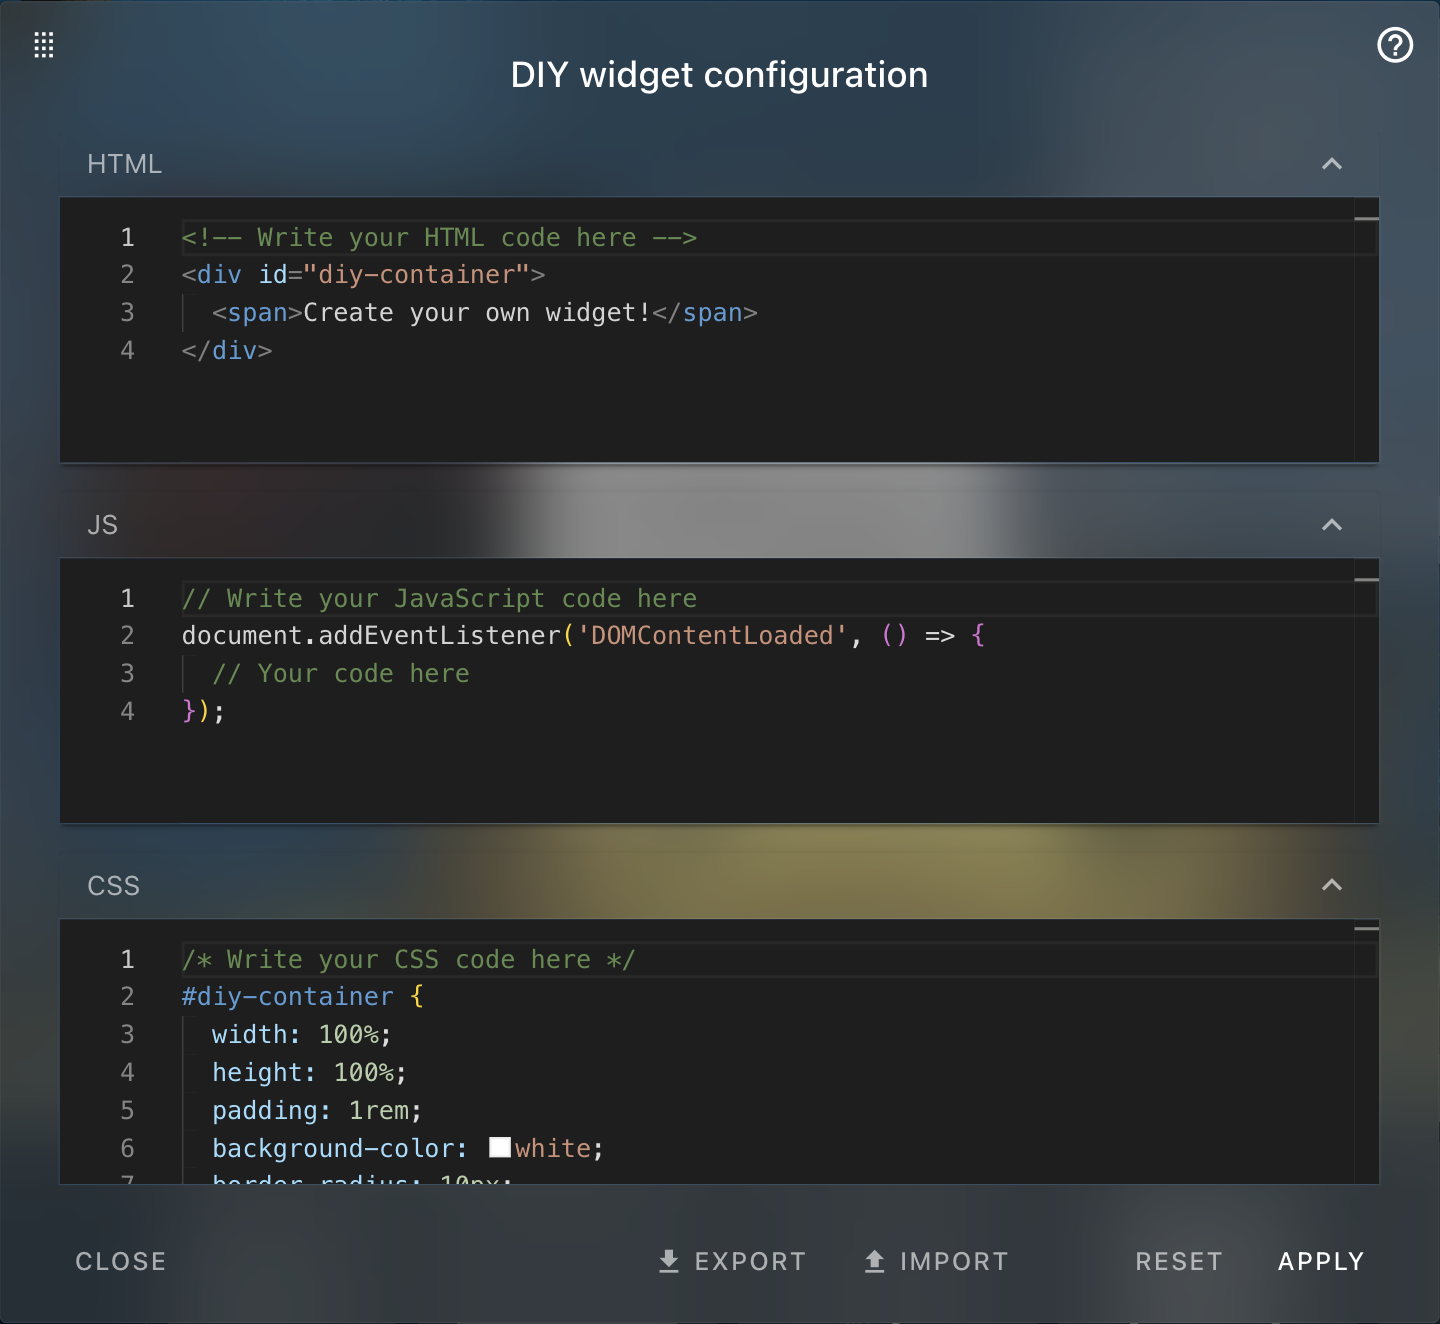
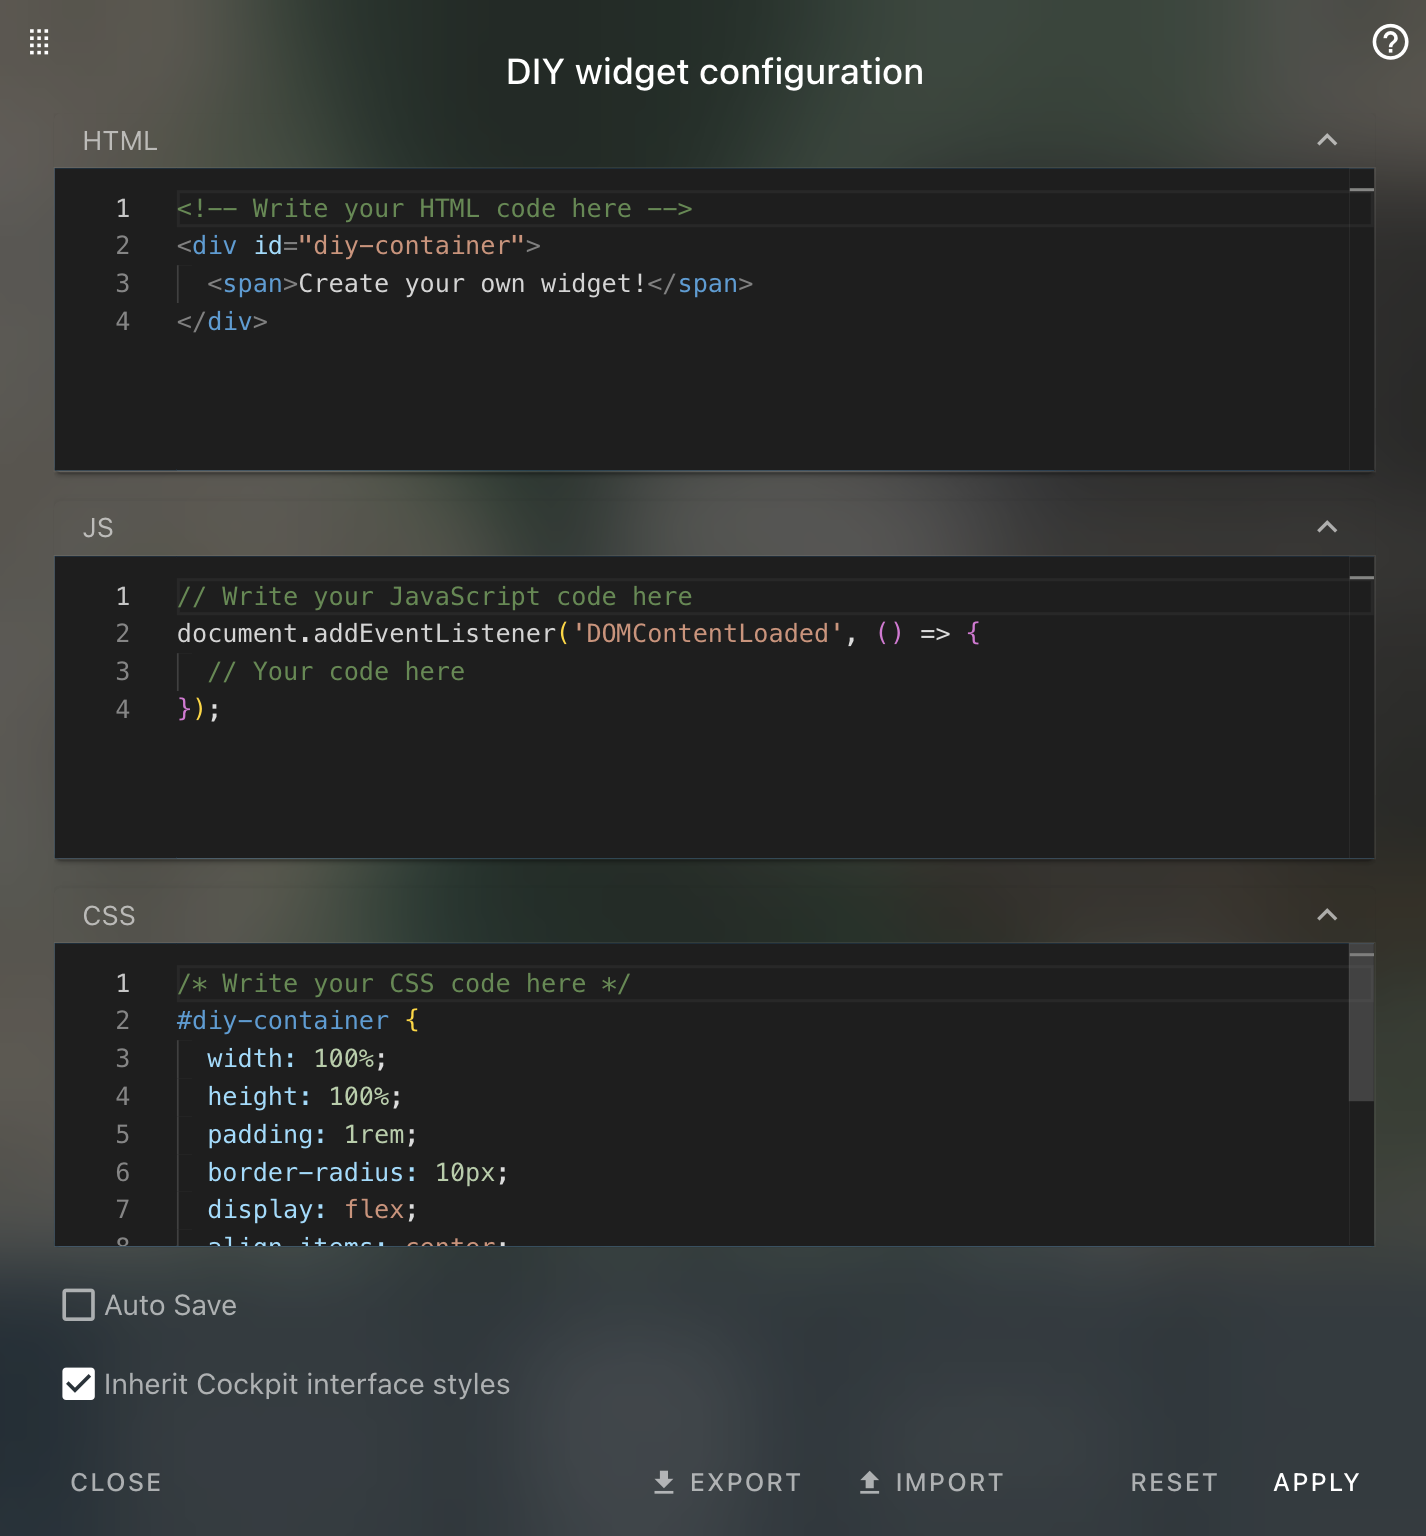
content: usage: advanced: DIY config style inheriting and auto-saving

diff --git a/content/usage/advanced/index.md b/content/usage/advanced/index.md
@@ -155,8 +155,8 @@ user (if one exists - otherwise it uses Cockpit's default profiles).
 ### Profiles
 
 A "profile" is a collection of [views](#views) that are relevant to a particular use-case or vehicle,
-together with any configured [custom widgets](#do-it-yourself-widget), [custom Actions](#custom-actions),
-and persistent [data-lake](#data-lake) variables.
+together with any configured [custom widgets](#do-it-yourself-diy-widget),
+[custom Actions](#custom-actions), and persistent [data-lake](#data-lake) variables.
 
 If one control station computer is used for multiple complex use-cases (which each require multiple 
 separate Views), then they can be separated into Profiles and the most relevant one can be switched
@@ -689,11 +689,15 @@ modifying basic appearance characteristics:
 It is possible to change the decimal resolution of the displayed statistics, and the limit the number
 of plotted samples to improve visibility and performance.
 
-#### Do It Yourself Widget
+#### Do It Yourself (DIY) Widget
 
 - Completely custom elements, code logic, and styling
 {{ easy_image(src="diy-widget-config", width=550, center=true) }}
 - Runs code automatically when Cockpit starts/refreshes
+- Can save and apply updates automatically (while editing), or be configured to only apply changes manually
+   - Auto-save should generally be disabled while editing JavaScript functionality, but can be convenient
+     while modifying a widget's visual interface / styling
+- Can inherit styles from the Cockpit interface, or use completely independent styles
 - Can listen to, create, and modify [data-lake variables](#data-lake), and register and/or execute Actions
 using the Cockpit API (`window.cockpit.*`)
 - Can be exported to or imported from a JSON file with `"html"`, `"css"`, and `"js"` string fields
@@ -789,8 +793,8 @@ detailed debugging interface provided.
 Cockpit's data lake is an accessible data management and storage system.
 
 It is designed to expose Cockpit's internals to the interface (including [displaying](#very-generic-indicators)
-and [plotting](#data-plotting)), and for use in user-defined functions (through [custom widgets](#do-it-yourself-widget)
-and [custom Actions](#custom-actions)).
+and [plotting](#data-plotting)), and for use in user-defined functions (through
+[custom widgets](#do-it-yourself-diy-widget) and [custom Actions](#custom-actions)).
 
 The data lake:
 - Includes information about Cockpit, the vehicle, video streams, MAVLink telemetry, and widget and Action internals
